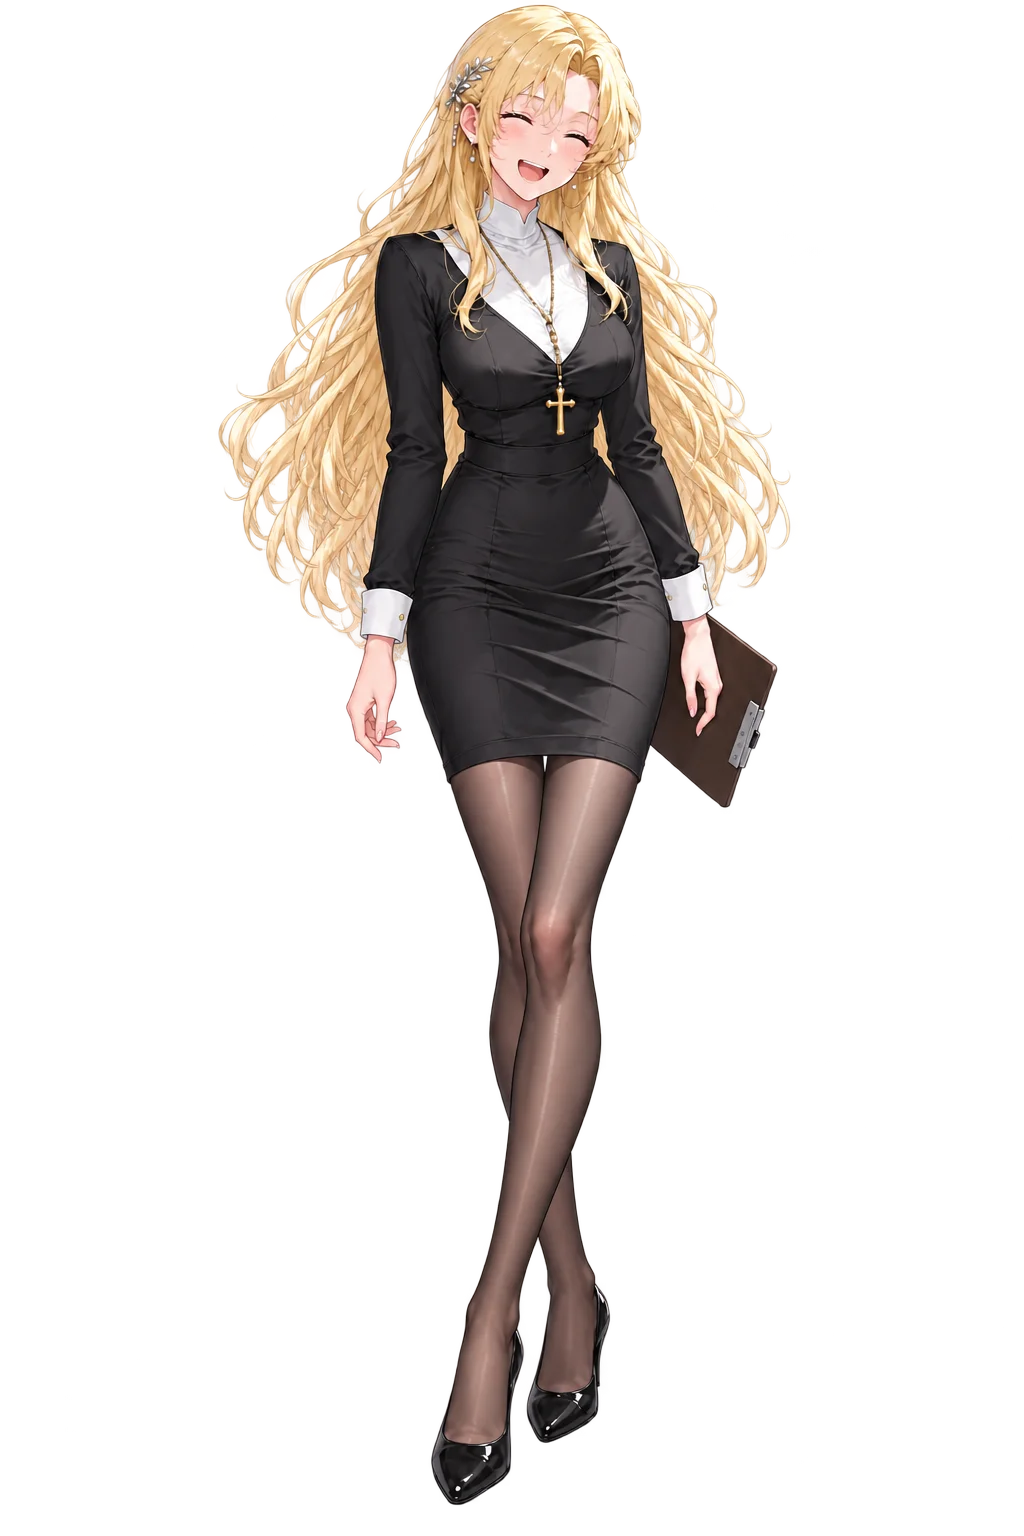
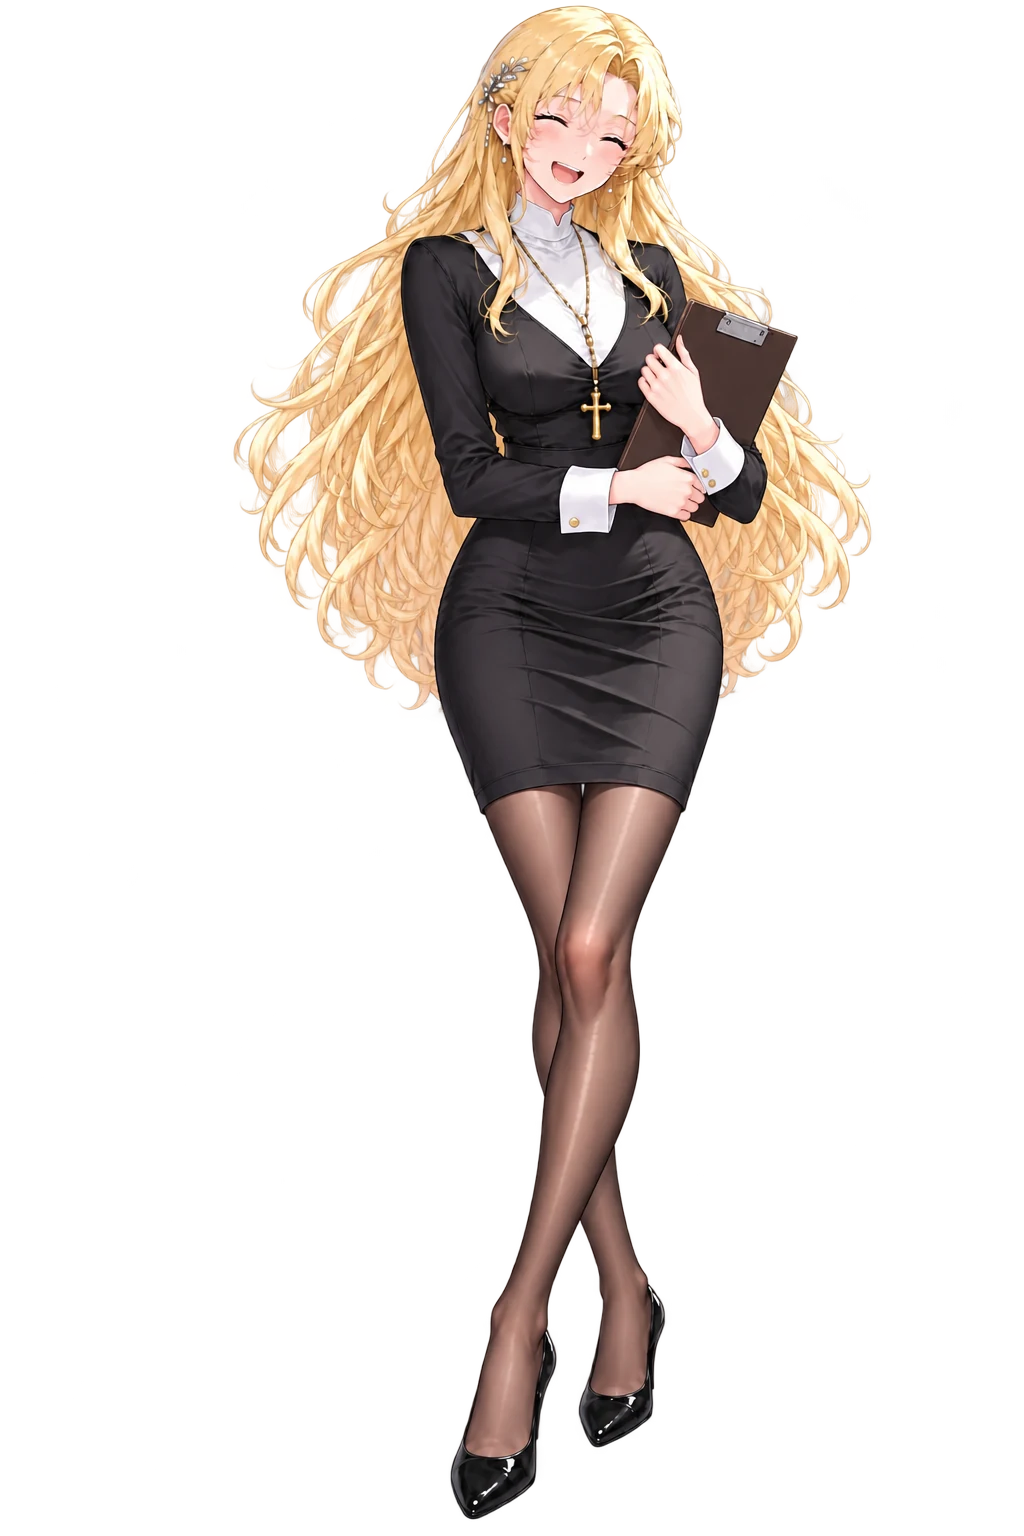
ver -2194 蕾娜 laugh 立繪換新（同名覆蓋，重量 bot 1500→1520，版號換雜湊）；新增 mon_bounty_EP 敵人圖

Changed region(s): [[0.2188, 0.0, 0.8438, 1.0]]

diff --git a/index.html b/index.html
@@ -16,7 +16,7 @@
 <link rel="apple-touch-icon" href="resources/background/tivot_emblem.png?v=9220f8bb">
 <title>TIVOT</title>
 <!-- 全域鎖直向（真鎖 + 橫向擋板）；classic script，需在版面就緒前掛上 -->
-<script src="orientation.js?v=2193"></script>
+<script src="orientation.js?v=2194"></script>
 <!-- ══ 效能探針・計數層（ver -850，Ray：「沒有辦法寫一個偵測程式進去看是什麼
      東西在吃資源嗎？」）══ 要在**所有程式之前**掛（晚掛就數不到早開的計時器），
      所以住在這裡。只做登記（Set/計數，開銷趨近零）；讀取與呈現在 main.js 的
@@ -63,72 +63,72 @@
 <script type="importmap">
 {
   "imports": {
-    "./audio.js": "./audio.js?v=2193",
-    "./config.js": "./config.js?v=2193",
-    "./i18n.js": "./i18n.js?v=2193",
-    "./main.js": "./main.js?v=2193",
-    "./orientation.js": "./orientation.js?v=2193",
-    "./state.js": "./state.js?v=2193",
-    "./telemetry.js": "./telemetry.js?v=2193",
-    "./modules/beatpick.js": "./modules/beatpick.js?v=2193",
-    "./modules/blink.js": "./modules/blink.js?v=2193",
-    "./modules/breath.js": "./modules/breath.js?v=2193",
-    "./modules/combat.js": "./modules/combat.js?v=2193",
-    "./modules/defense.js": "./modules/defense.js?v=2193",
-    "./modules/enemy.js": "./modules/enemy.js?v=2193",
-    "./modules/eyefx.js": "./modules/eyefx.js?v=2193",
-    "./modules/gear.js": "./modules/gear.js?v=2193",
-    "./modules/groundShadow.js": "./modules/groundShadow.js?v=2193",
-    "./modules/haptics.js": "./modules/haptics.js?v=2193",
-    "./modules/inn.js": "./modules/inn.js?v=2193",
-    "./modules/inspector.js": "./modules/inspector.js?v=2193",
-    "./modules/loot.js": "./modules/loot.js?v=2193",
-    "./modules/partner.js": "./modules/partner.js?v=2193",
-    "./modules/saint.js": "./modules/saint.js?v=2193",
-    "./modules/sakura.js": "./modules/sakura.js?v=2193",
-    "./modules/save.js": "./modules/save.js?v=2193",
-    "./modules/settings.js": "./modules/settings.js?v=2193",
-    "./modules/story.js": "./modules/story.js?v=2193",
-    "./modules/sway.js": "./modules/sway.js?v=2193",
-    "./modules/tone.js": "./modules/tone.js?v=2193",
-    "./modules/town.js": "./modules/town.js?v=2193",
-    "./modules/transition.js": "./modules/transition.js?v=2193",
-    "./modules/tutorial.js": "./modules/tutorial.js?v=2193",
-    "./modules/weapon.js": "./modules/weapon.js?v=2193",
-    "./script/bg_index.js": "./script/bg_index.js?v=2193",
-    "./script/blink.js": "./script/blink.js?v=2193",
-    "./script/clock.js": "./script/clock.js?v=2193",
-    "./script/enemies.js": "./script/enemies.js?v=2193",
-    "./script/evaluation.js": "./script/evaluation.js?v=2193",
-    "./script/eyefx.js": "./script/eyefx.js?v=2193",
-    "./script/inventory.js": "./script/inventory.js?v=2193",
-    "./script/loadout.js": "./script/loadout.js?v=2193",
-    "./script/mainScript.js": "./script/mainScript.js?v=2193",
-    "./script/progress.js": "./script/progress.js?v=2193",
-    "./script/shopcards.js": "./script/shopcards.js?v=2193",
-    "./script/shopstock.js": "./script/shopstock.js?v=2193",
-    "./script/speakers.js": "./script/speakers.js?v=2193",
-    "./script/sway.js": "./script/sway.js?v=2193",
-    "./script/town.js": "./script/town.js?v=2193",
-    "./script/weapons.js": "./script/weapons.js?v=2193",
-    "./i18n/en.js": "./i18n/en.js?v=2193",
-    "./i18n/es.js": "./i18n/es.js?v=2193",
-    "./i18n/ja.js": "./i18n/ja.js?v=2193",
-    "./i18n/scriptTr.js": "./i18n/scriptTr.js?v=2193",
-    "./i18n/zh.js": "./i18n/zh.js?v=2193",
-    "./i18n/script/es.classic.js": "./i18n/script/es.classic.js?v=2193",
-    "./i18n/script/es.js": "./i18n/script/es.js?v=2193",
-    "./i18n/ui/es.classic.js": "./i18n/ui/es.classic.js?v=2193",
-    "./i18n/ui/es.js": "./i18n/ui/es.js?v=2193"
+    "./audio.js": "./audio.js?v=2194",
+    "./config.js": "./config.js?v=2194",
+    "./i18n.js": "./i18n.js?v=2194",
+    "./main.js": "./main.js?v=2194",
+    "./orientation.js": "./orientation.js?v=2194",
+    "./state.js": "./state.js?v=2194",
+    "./telemetry.js": "./telemetry.js?v=2194",
+    "./modules/beatpick.js": "./modules/beatpick.js?v=2194",
+    "./modules/blink.js": "./modules/blink.js?v=2194",
+    "./modules/breath.js": "./modules/breath.js?v=2194",
+    "./modules/combat.js": "./modules/combat.js?v=2194",
+    "./modules/defense.js": "./modules/defense.js?v=2194",
+    "./modules/enemy.js": "./modules/enemy.js?v=2194",
+    "./modules/eyefx.js": "./modules/eyefx.js?v=2194",
+    "./modules/gear.js": "./modules/gear.js?v=2194",
+    "./modules/groundShadow.js": "./modules/groundShadow.js?v=2194",
+    "./modules/haptics.js": "./modules/haptics.js?v=2194",
+    "./modules/inn.js": "./modules/inn.js?v=2194",
+    "./modules/inspector.js": "./modules/inspector.js?v=2194",
+    "./modules/loot.js": "./modules/loot.js?v=2194",
+    "./modules/partner.js": "./modules/partner.js?v=2194",
+    "./modules/saint.js": "./modules/saint.js?v=2194",
+    "./modules/sakura.js": "./modules/sakura.js?v=2194",
+    "./modules/save.js": "./modules/save.js?v=2194",
+    "./modules/settings.js": "./modules/settings.js?v=2194",
+    "./modules/story.js": "./modules/story.js?v=2194",
+    "./modules/sway.js": "./modules/sway.js?v=2194",
+    "./modules/tone.js": "./modules/tone.js?v=2194",
+    "./modules/town.js": "./modules/town.js?v=2194",
+    "./modules/transition.js": "./modules/transition.js?v=2194",
+    "./modules/tutorial.js": "./modules/tutorial.js?v=2194",
+    "./modules/weapon.js": "./modules/weapon.js?v=2194",
+    "./script/bg_index.js": "./script/bg_index.js?v=2194",
+    "./script/blink.js": "./script/blink.js?v=2194",
+    "./script/clock.js": "./script/clock.js?v=2194",
+    "./script/enemies.js": "./script/enemies.js?v=2194",
+    "./script/evaluation.js": "./script/evaluation.js?v=2194",
+    "./script/eyefx.js": "./script/eyefx.js?v=2194",
+    "./script/inventory.js": "./script/inventory.js?v=2194",
+    "./script/loadout.js": "./script/loadout.js?v=2194",
+    "./script/mainScript.js": "./script/mainScript.js?v=2194",
+    "./script/progress.js": "./script/progress.js?v=2194",
+    "./script/shopcards.js": "./script/shopcards.js?v=2194",
+    "./script/shopstock.js": "./script/shopstock.js?v=2194",
+    "./script/speakers.js": "./script/speakers.js?v=2194",
+    "./script/sway.js": "./script/sway.js?v=2194",
+    "./script/town.js": "./script/town.js?v=2194",
+    "./script/weapons.js": "./script/weapons.js?v=2194",
+    "./i18n/en.js": "./i18n/en.js?v=2194",
+    "./i18n/es.js": "./i18n/es.js?v=2194",
+    "./i18n/ja.js": "./i18n/ja.js?v=2194",
+    "./i18n/scriptTr.js": "./i18n/scriptTr.js?v=2194",
+    "./i18n/zh.js": "./i18n/zh.js?v=2194",
+    "./i18n/script/es.classic.js": "./i18n/script/es.classic.js?v=2194",
+    "./i18n/script/es.js": "./i18n/script/es.js?v=2194",
+    "./i18n/ui/es.classic.js": "./i18n/ui/es.classic.js?v=2194",
+    "./i18n/ui/es.js": "./i18n/ui/es.js?v=2194"
   }
 }
 </script>
 <!-- BUST:END -->
-<link rel="stylesheet" href="style.css?v=2193">
+<link rel="stylesheet" href="style.css?v=2194">
   <!-- 拾得道具／道具欄／商店／懸賞榜（ver -380 抽出，飛行頁共用同一份）。
        ⚠ `data-lootsheet` 是給 `modules/loot.js` 認的：它看到已經掛過就不再掛一次。
          飛行頁沒有這一行，由那支模組自己掛上去。 -->
-  <link rel="stylesheet" href="css/lootsheet.css?v=2193" data-lootsheet="1">
+  <link rel="stylesheet" href="css/lootsheet.css?v=2194" data-lootsheet="1">
 <!-- 主畫面 App（standalone）偵測：首繪前在 <html> 蓋 .standalone，
      供 CSS 修 iOS 26 版面視窗少算頂部安全區高度（底部露黑帶）的問題 -->
 <script>
@@ -774,6 +774,6 @@
      ⚠ src 是**按下去才給**的（lazy）：不然每次開機都要多載一整個飛行頁。 -->
 <iframe id="flightFrame" title="飛行"></iframe>
 
-<script type="module" src="main.js?v=2193"></script>
+<script type="module" src="main.js?v=2194"></script>
 </body>
 </html>

diff --git a/flight/index.html b/flight/index.html
@@ -3,7 +3,7 @@
 <head>
 <meta charset="utf-8">
 <meta name="viewport" content="width=device-width,initial-scale=1,maximum-scale=1,user-scalable=no,viewport-fit=cover">
-<script src="../orientation.js?v=2193"></script>
+<script src="../orientation.js?v=2194"></script>
 <script>
 /* 介面字譯文（ver -1909）：這一頁是非模組，程式一開跑就讀字串 —— 所以譯文表要**同步**載
    （document.write，只在選了有譯文的語言時）。語言判定與 i18n.js 的 LANG 同一套
@@ -11,7 +11,7 @@
 (function(){
   var l=null; try{ l=localStorage.getItem('tivot.lang'); }catch(e){}
   if(!l){ try{ var n=(navigator.languages&&navigator.languages[0])||navigator.language||''; if(String(n).toLowerCase().indexOf('es')===0) l='es'; }catch(e){} }
-  if(['es'].indexOf(l)>=0) document.write('<script src="../i18n/script/'+l+'.classic.js?v=2193"><\/script><script src="../i18n/ui/'+l+'.classic.js?v=2193"><\/script>');
+  if(['es'].indexOf(l)>=0) document.write('<script src="../i18n/script/'+l+'.classic.js?v=2194"><\/script><script src="../i18n/ui/'+l+'.classic.js?v=2194"><\/script>');
 })();
 function i18nT(s){ var t=window.__TIVOT_TR; return (t && typeof s==='string' && t[s]!=null) ? t[s] : s; }
 document.addEventListener('DOMContentLoaded', function(){
@@ -230,7 +230,7 @@ document.addEventListener('DOMContentLoaded', function(){
     100%{transform:translate(0,0);} }
   #fkerbDoor{position:absolute;left:0;top:0;transform:translateY(0);
     transition:transform 1s cubic-bezier(.22,.9,.25,1);
-    background-image:url('../resources/vfx/kerberos_door.webp?v=2193');
+    background-image:url('../resources/vfx/kerberos_door.webp?v=2194');
     background-repeat:no-repeat;background-size:100% 100%;}
   #fkerb.rise #fkerbDoor{transform:translateY(calc(var(--fkerb-rise,0px) * -1));}
   /* 楣與其餘零件：全部是門的子元素＝同一剛體，門上推它們跟著上去
@@ -253,8 +253,8 @@ document.addEventListener('DOMContentLoaded', function(){
       radial-gradient(circle at 50% 22%, rgba(0,0,0,.72) 40%, rgba(0,0,0,0) 78%);
     box-shadow:inset 0 3px 7px rgba(0,0,0,.85);}
   #fkerbGear .fkg-shine{position:absolute;inset:0;mix-blend-mode:screen;opacity:.8;
-    -webkit-mask-image:url("../resources/vfx/kerberos_gear.webp?v=2193");
-    mask-image:url("../resources/vfx/kerberos_gear.webp?v=2193");
+    -webkit-mask-image:url("../resources/vfx/kerberos_gear.webp?v=2194");
+    mask-image:url("../resources/vfx/kerberos_gear.webp?v=2194");
     -webkit-mask-size:100% 100%;mask-size:100% 100%;
     -webkit-mask-repeat:no-repeat;mask-repeat:no-repeat;
     background:linear-gradient(114deg,
@@ -274,8 +274,8 @@ document.addEventListener('DOMContentLoaded', function(){
     filter:drop-shadow(0 3px 7px rgba(0,0,0,.9)) drop-shadow(0 0 2px rgba(0,0,0,.8));}
   #fkerbPend .fkp-shine{position:absolute;inset:0;pointer-events:none;
     mix-blend-mode:screen;opacity:.85;
-    -webkit-mask-image:url("../resources/vfx/kerberos_pendant.webp?v=2193");
-    mask-image:url("../resources/vfx/kerberos_pendant.webp?v=2193");
+    -webkit-mask-image:url("../resources/vfx/kerberos_pendant.webp?v=2194");
+    mask-image:url("../resources/vfx/kerberos_pendant.webp?v=2194");
     -webkit-mask-size:100% 100%;mask-size:100% 100%;
     -webkit-mask-repeat:no-repeat;mask-repeat:no-repeat;
     background:linear-gradient(114deg,
@@ -640,25 +640,25 @@ img:not([src]), img[src=""], img.img-broken{visibility:hidden !important;}
        ⚠ 要有，否則交棒那一格齒輪會憑空冒出來（同吊墜的理由）。
        ⚠ 排在 `.fk-plate` 之前 ＝ 團徽之下、槍棺之上。 -->
   <div id="fkerbGear"><i class="fkg-well"></i>
-    <img src="../resources/vfx/kerberos_gear.webp?v=2193" alt=""><i class="fkg-shine"></i></div>
+    <img src="../resources/vfx/kerberos_gear.webp?v=2194" alt=""><i class="fkg-shine"></i></div>
   <div id="fkerbGearSm"><i class="fkg-well"></i>
-    <img src="../resources/vfx/kerberos_gear.webp?v=2193" alt=""></div>
-  <img class="fk-plate" src="../resources/vfx/kerberos_plate.webp?v=2193" alt="">
-  <img class="fk-arrow n" src="../resources/vfx/kerberos_arrow.webp?v=2193" alt="">
-  <img class="fk-arrow e" src="../resources/vfx/kerberos_arrow.webp?v=2193" alt="">
-  <img class="fk-arrow s" src="../resources/vfx/kerberos_arrow.webp?v=2193" alt="">
-  <img class="fk-arrow w" src="../resources/vfx/kerberos_arrow.webp?v=2193" alt="">
-  <img class="fk-rivet r10" src="../resources/vfx/kerberos_rivet.webp?v=2193" alt="">
-  <img class="fk-rivet r2"  src="../resources/vfx/kerberos_rivet.webp?v=2193" alt="">
-  <img class="fk-rivet r4"  src="../resources/vfx/kerberos_rivet.webp?v=2193" alt="">
-  <img class="fk-rivet r8"  src="../resources/vfx/kerberos_rivet.webp?v=2193" alt="">
+    <img src="../resources/vfx/kerberos_gear.webp?v=2194" alt=""></div>
+  <img class="fk-plate" src="../resources/vfx/kerberos_plate.webp?v=2194" alt="">
+  <img class="fk-arrow n" src="../resources/vfx/kerberos_arrow.webp?v=2194" alt="">
+  <img class="fk-arrow e" src="../resources/vfx/kerberos_arrow.webp?v=2194" alt="">
+  <img class="fk-arrow s" src="../resources/vfx/kerberos_arrow.webp?v=2194" alt="">
+  <img class="fk-arrow w" src="../resources/vfx/kerberos_arrow.webp?v=2194" alt="">
+  <img class="fk-rivet r10" src="../resources/vfx/kerberos_rivet.webp?v=2194" alt="">
+  <img class="fk-rivet r2"  src="../resources/vfx/kerberos_rivet.webp?v=2194" alt="">
+  <img class="fk-rivet r4"  src="../resources/vfx/kerberos_rivet.webp?v=2194" alt="">
+  <img class="fk-rivet r8"  src="../resources/vfx/kerberos_rivet.webp?v=2194" alt="">
   <!-- 吊墜（ver -412）：與主遊戲同一套（見 index.html 的 #kerbPend 與 style.css）。
        ⚠ 這一頁**必須也有** —— 遭遇時門是在這裡推上來的，交棒之後主遊戲那一半才接手；
          只有一邊掛吊墜的話，交棒那一格會憑空多出一個東西。 -->
   <div id="fkerbPend"><div class="fkp-swing"><div class="fkp-idle">
-    <img src="../resources/vfx/kerberos_pendant.webp?v=2193" alt=""><i class="fkp-shine"></i>
+    <img src="../resources/vfx/kerberos_pendant.webp?v=2194" alt=""><i class="fkp-shine"></i>
   </div></div></div>
-  <img id="fkerbTop" src="../resources/vfx/kerberos_top.webp?v=2193" alt="">
+  <img id="fkerbTop" src="../resources/vfx/kerberos_top.webp?v=2194" alt="">
 </div></div>
 <div id="boot">
   <div id="bRing">
@@ -679,11 +679,11 @@ img:not([src]), img[src=""], img.img-broken{visibility:hidden !important;}
   <div id="bMsg"><small id="bootMsg"></small></div>
 </div>
 
-<script src="settlement.js?v=2193"></script>
+<script src="settlement.js?v=2194"></script>
 <!-- 閒聊對話的**內容**獨立成一支：方便加台詞、加觸發條件而不必碰引擎。
      ⚠ 一般 <script>（非 module）→ TALKS / talkPeriod / talkPick 是全域，
        而且會在下面這段 inline 之前執行完，所以 inline 內可以直接用。 -->
-<script src="talks.js?v=2193"></script>
+<script src="talks.js?v=2194"></script>
 <script>
 /* 破圖框一律不畫（ver -1881，同主頁 main.js 那一支，這一頁是另一個 document）。 */
 document.addEventListener('error', e=>{ const t=e.target; if(t && t.tagName==='IMG') t.classList.add('img-broken'); }, true);
@@ -759,7 +759,7 @@ const COLOR_URL  = 'silvermoon_terrain.png?v=6c76f316'  + TERRAIN_V;
    以前是手寫的，於是從 -911 起就沒有人記得動它 —— 而 HUD 上的版本號正是 Ray
    在手機上確認「我現在跑的是哪一版」的唯一依據（鐵律 7：一個量一個計算點；
    ver -626：版本號不動就等於沒有版本號）。**不要手改。** */
-const FLIGHT_VER = 'ver -2193';
+const FLIGHT_VER = 'ver -2194';
 const MAP_SCALE  = 20;
 const INV_SCALE  = 1/MAP_SCALE;
 const PEAK_SCALE = 520;   // 高度圖 255 對應的世界高度（越大山越陡）

diff --git a/script/speakers.js b/script/speakers.js
@@ -425,7 +425,7 @@ export const ART = {
     determine:{ src:'resources/si/renna_si_determine.webp?v=3cadfcd7', top:7, bot:1519, fx:0.495 },
     handout:   { src:'resources/si/renna_si_handout.webp?v=42b42b05', top:5, bot:1519, fx:0.505 },
     holdfile:  { src:'resources/si/renna_si_holdfile.webp?v=d5f548b1', top:4, bot:1505, fx:0.499 },
-    laugh:     { src:'resources/si/renna_si_laugh.webp?v=2d37e1a7', top:5, bot:1500, fx:0.522 },
+    laugh:     { src:'resources/si/renna_si_laugh.webp?v=376a90e7', top:5, bot:1520, fx:0.522 },
     lookaside: { src:'resources/si/renna_si_lookaside.webp?v=ef1b0822', top:4, bot:1519, fx:0.513 },
     nod:       { src:'resources/si/renna_si_nod.webp?v=14bc1ee3', top:7, bot:1520, fx:0.508 },
     pointmap:  { src:'resources/si/renna_si_pointmap.webp?v=447e33de', top:4, bot:1511, fx:0.507 },

diff --git a/config.js b/config.js
@@ -87,7 +87,7 @@ export const HITFX = {
  *     以為是快取卡住 —— 版本號不動就等於沒有版本號）。
  *  ⚠ 它同時是**暖開機戳記的鑰匙**（main.js 的 `WARM_BOOT`）：版本一變，
  *    上一版的戳記就失效 → 下一次開機重跑完整讀取。那正是改版後該有的行為。 */
-export const VERSION = 'ver 2026.09.22-2193';
+export const VERSION = 'ver 2026.09.22-2194';
 
 export const GAME_CONFIG = {
 
@@ -6455,7 +6455,7 @@ export const ASSET_VER = {
   'renna_si_intense_half': '2863f4a6',
   'renna_si_invite_closed': '58b39252',
   'renna_si_invite_half': 'f8ae408b',
-  'renna_si_laugh': '2d37e1a7',
+  'renna_si_laugh': '376a90e7',
   'renna_si_lookaside': 'ef1b0822',
   'renna_si_lookaside_closed': '36da756b',
   'renna_si_lookaside_half': '405cab47',

diff --git a/modules/story.js b/modules/story.js
@@ -3556,7 +3556,7 @@ const KERB_DIR='resources/vfx/';
    cache-buster（§5：檔名沒變、內容變了，瀏覽器照樣拿舊的那一份，而症狀只是
    「看起來沒變」）。版本號由 `tools/bust.py` 同步，路徑只由 `kerbUrl()` 組（鐵律 8）——
    飛行頁那一半是另一個 document，各有一份，改一邊要改另一邊。 */
-const KERB_V='?v=2193';
+const KERB_V='?v=2194';
 const kerbUrl=n=>KERB_DIR+n+'.webp'+KERB_V;
 /* 幾何：由 tools/kerberos_cut.py 印出來的（門座標的比例）。**改圖要重跑腳本再貼回來。**
    ⚠ 箭與鉚釘給的是**中心點**與**未旋轉**的尺寸 —— CSS 的 rotate 是繞元素中心轉的，
